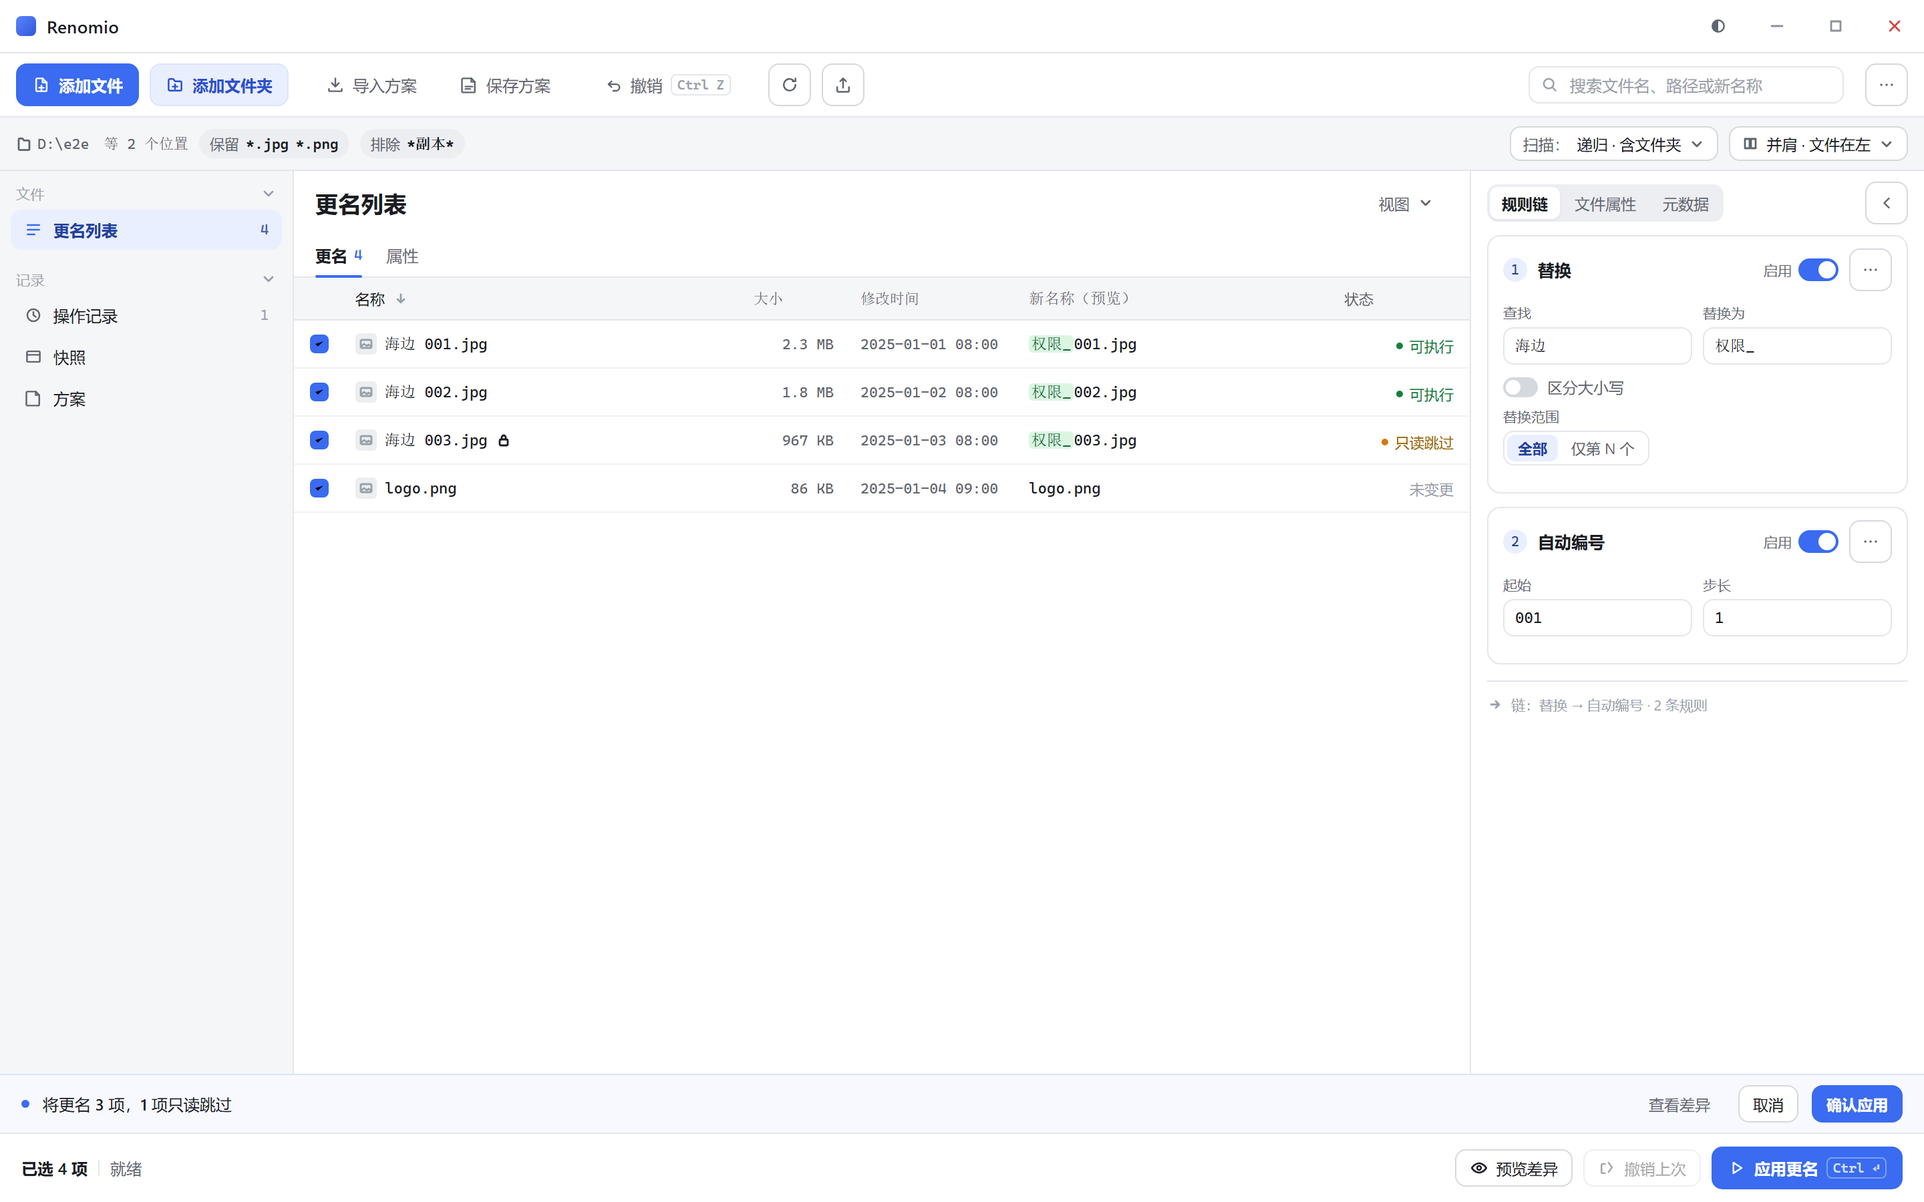
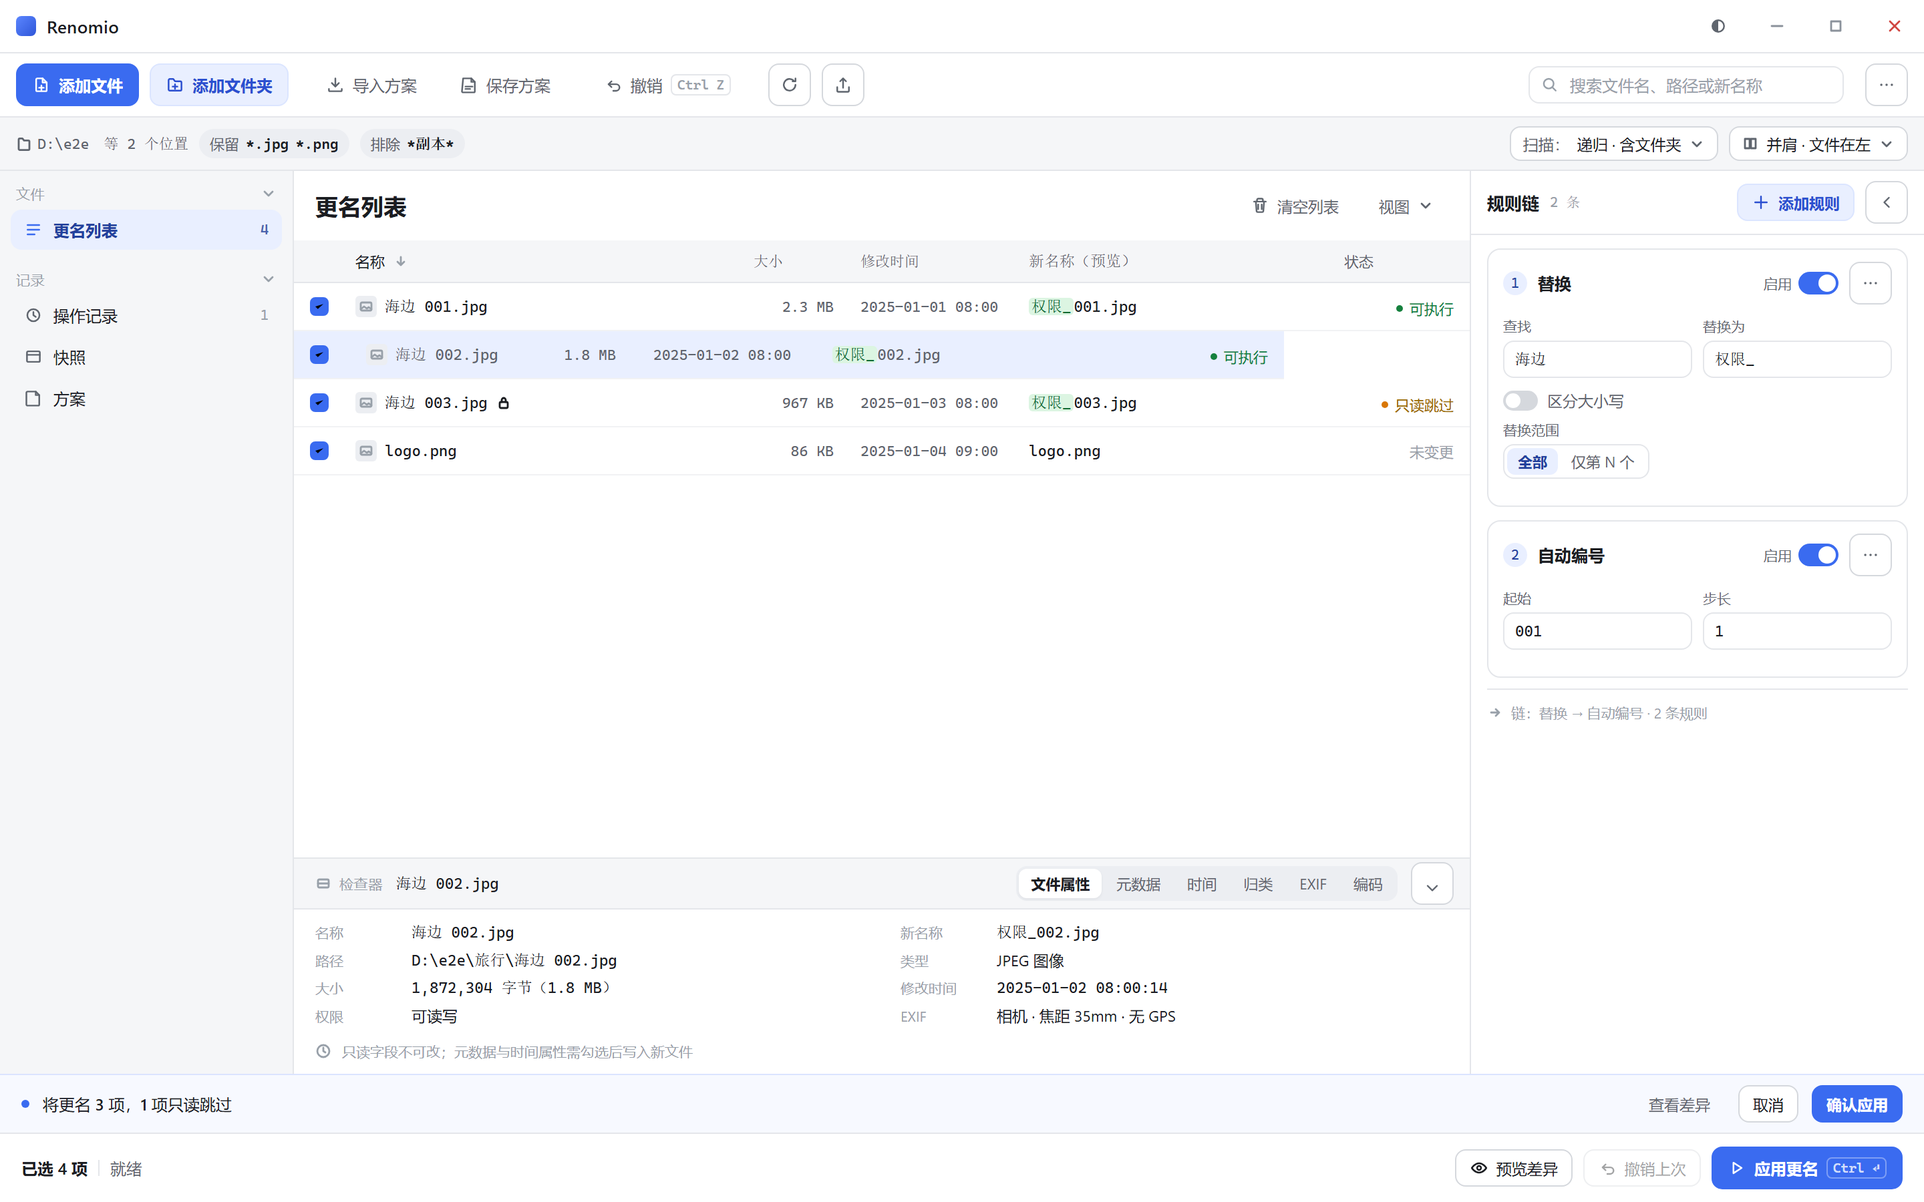
docs(design): v2 设计稿 - 检查器改底部抽屉、取消全部页签、新增清空列表

diff --git a/docs/design/p0-shell.html b/docs/design/p0-shell.html
@@ -2,7 +2,7 @@
 <html lang="zh-CN">
 <head>
 <meta charset="utf-8" />
-<title>Renomio · P0 界面重构设计稿</title>
+<title>Renomio · P0 界面重构设计稿（v2：检查器底部抽屉 / 无页签）</title>
 <style>
   :root{
     --bg:#ffffff;
@@ -30,7 +30,6 @@
   .win{width:1440px;height:900px;display:flex;flex-direction:column;min-height:0;overflow:hidden}
   svg.ic{width:14px;height:14px;flex:0 0 auto;stroke:currentColor;stroke-width:1.4;fill:none;stroke-linecap:round;stroke-linejoin:round}
   svg.ic.sm{width:12px;height:12px}
-  svg.ic.lg{width:16px;height:16px}
 
   /* 标题栏 40 */
   .titlebar{height:40px;flex:0 0 auto;display:flex;align-items:center;gap:8px;padding:0 12px;background:var(--surface);border-bottom:1px solid var(--line)}
@@ -67,7 +66,6 @@
   .path-btn .dim{color:var(--text-2)}
   .path-btn svg{color:var(--text-2)}
 
-  /* 主体 */
   .body{flex:1;display:flex;min-height:0}
 
   /* 侧栏 220 */
@@ -82,23 +80,19 @@
   .nav-item.active .cnt{color:#4a63ad}
   .nav-flex{flex:1}
 
-  /* 内容区 */
+  /* 内容区：无页签 */
   .pane{flex:1;min-width:0;display:flex;flex-direction:column;background:var(--bg)}
-  .pane-head{height:48px;flex:0 0 auto;display:flex;align-items:center;gap:12px;padding:0 16px}
+  .pane-head{height:52px;flex:0 0 auto;display:flex;align-items:center;gap:8px;padding:0 16px}
   .pane-head h1{font-size:17px;font-weight:600;margin:0;letter-spacing:.1px}
   .pane-head .sp{flex:1}
-  .tabs{height:32px;flex:0 0 auto;display:flex;align-items:flex-end;gap:18px;padding:0 16px;border-bottom:1px solid var(--line)}
-  .tab{position:relative;height:32px;display:inline-flex;align-items:center;gap:5px;font-size:12px;color:var(--text-2)}
-  .tab.active{color:var(--text);font-weight:600}
-  .tab.active::after{content:"";position:absolute;left:0;right:0;bottom:-1px;height:2px;background:var(--accent);border-radius:1px}
-  .tab i{font-style:normal;font-family:var(--mono);font-size:10.5px;color:var(--text-muted)}
-  .tab.active i{color:var(--accent)}
-  .table{flex:1;overflow:hidden}
-  .thead{height:32px;display:flex;align-items:center;border-bottom:1px solid var(--line);color:var(--text-2);font-size:11px;background:var(--surface-2)}
+  .table{flex:1;overflow:hidden;display:flex;flex-direction:column}
+  .thead{height:32px;flex:0 0 auto;display:flex;align-items:center;border-bottom:1px solid var(--line);color:var(--text-2);font-size:11px;background:var(--surface-2)}
   .th{display:flex;align-items:center;gap:4px;padding:0 10px;height:32px;font-weight:500}
   .th.sort{color:var(--text)}
   .th.sort svg{color:var(--text-muted)}
+  .rows{flex:1;overflow:hidden}
   .row{height:var(--row-h);display:flex;align-items:center;border-bottom:1px solid #f1f2f4;font-size:12px}
+  .row.sel{background:var(--accent-weak)}
   .c-check{width:36px;padding-left:12px;color:var(--line-2)}
   .row-check{width:14px;height:14px;border-radius:4px;border:1px solid var(--line-2);display:grid;place-items:center;background:#fff}
   .row-check.on{background:var(--accent);border-color:var(--accent);color:#fff}
@@ -119,14 +113,34 @@
   .dot-warn::before{background:#d97706}
   .stat-mute{color:var(--text-muted);font-size:11px}
 
-  /* 右栏 340 */
-  .inspector{width:340px;flex:0 0 auto;background:var(--surface);border-left:1px solid var(--line);display:flex;flex-direction:column}
-  .insp-head{height:48px;flex:0 0 auto;display:flex;align-items:center;gap:8px;padding:0 12px}
-  .seg{display:inline-flex;height:28px;padding:2px;border-radius:8px;background:var(--surface-3);gap:2px}
-  .seg span{display:inline-flex;align-items:center;padding:0 9px;border-radius:6px;font-size:11.5px;color:var(--text-2);white-space:nowrap}
+  /* 底部抽屉：检查器 */
+  .drawer{flex:0 0 auto;border-top:1px solid var(--line);background:var(--surface);display:flex;flex-direction:column}
+  .dw-head{height:38px;flex:0 0 auto;display:flex;align-items:center;gap:10px;padding:0 12px 0 16px;background:var(--surface-2);border-bottom:1px solid var(--line)}
+  .dw-title{display:inline-flex;align-items:center;gap:6px;font-size:10.5px;letter-spacing:.3px;color:var(--text-muted);white-space:nowrap}
+  .dw-subject{font-family:var(--mono);font-size:11.5px;color:var(--text);white-space:nowrap;overflow:hidden;text-overflow:ellipsis;max-width:220px}
+  .dw-head .sp{flex:1}
+  .seg{display:inline-flex;height:26px;padding:2px;border-radius:8px;background:var(--surface-3);gap:2px}
+  .seg span{display:inline-flex;align-items:center;padding:0 9px;border-radius:6px;font-size:11px;color:var(--text-2);white-space:nowrap}
   .seg span.on{background:var(--surface);color:var(--text);font-weight:600;box-shadow:0 1px 2px rgba(0,0,0,.05)}
+  .dw-body{padding:10px 16px 12px;display:grid;grid-template-columns:repeat(2,minmax(0,1fr));gap:6px 28px}
+  .kv{display:flex;align-items:center;gap:8px;font-size:11.5px;min-width:0}
+  .kv .k{color:var(--text-muted);width:64px;flex:0 0 auto;font-size:10.5px}
+  .kv .v{color:var(--text);font-family:var(--mono);font-size:11.5px;white-space:nowrap;overflow:hidden;text-overflow:ellipsis}
+  .kv .v.plain{font-family:var(--font)}
+  .dw-foot{display:flex;align-items:center;gap:8px;padding:0 16px 10px;color:var(--text-muted);font-size:10.5px}
+  .drawer.collapsed .dw-body,.drawer.collapsed .dw-foot{display:none}
+  .drawer.collapsed .dw-head{height:36px;border-bottom:0}
+  .drawer.collapsed .seg{display:none}
+  .dw-sum{display:none;font-size:10.5px;color:var(--text-muted)}
+  .drawer.collapsed .dw-sum{display:inline}
+
+  /* 右栏：只留规则链 */
+  .inspector{width:340px;flex:0 0 auto;background:var(--surface);border-left:1px solid var(--line);display:flex;flex-direction:column}
+  .insp-head{height:48px;flex:0 0 auto;display:flex;align-items:center;gap:8px;padding:0 12px;border-bottom:1px solid var(--line)}
+  .insp-head h2{font-size:13px;font-weight:600;margin:0}
+  .insp-head .badge{font-family:var(--mono);font-size:10.5px;color:var(--text-muted)}
   .insp-head .sp{flex:1}
-  .rule-card{margin:0 12px 10px;border:1px solid var(--line);border-radius:10px;background:var(--surface);padding:9px 11px 11px}
+  .rule-card{margin:10px 12px 0;border:1px solid var(--line);border-radius:10px;background:var(--surface);padding:9px 11px 11px}
   .rc-head{display:flex;align-items:center;gap:8px;margin-bottom:9px}
   .rc-no{width:18px;height:18px;border-radius:999px;background:var(--accent-weak);color:var(--accent-text);font-family:var(--mono);font-size:10.5px;display:grid;place-items:center}
   .rc-title{font-size:12.5px;font-weight:600}
@@ -145,7 +159,7 @@
   .scope{display:inline-flex;height:26px;padding:2px;border-radius:8px;border:1px solid var(--line);gap:2px}
   .scope span{padding:0 8px;display:inline-flex;align-items:center;border-radius:6px;font-size:11px;color:var(--text-2)}
   .scope span.on{background:var(--accent-weak);color:var(--accent-text);font-weight:600}
-  .chain-foot{display:flex;align-items:center;gap:6px;margin:2px 12px 0;padding-top:10px;border-top:1px solid var(--line);color:var(--text-muted);font-size:10.5px}
+  .chain-foot{display:flex;align-items:center;gap:6px;margin:8px 12px 0;padding-top:10px;border-top:1px solid var(--line);color:var(--text-muted);font-size:10.5px}
   .insp-flex{flex:1}
 
   /* 行内确认条 */
@@ -168,7 +182,7 @@
 <body>
 <div class="win">
 
-  <!-- 1 标题栏：只做窗口身份 -->
+  <!-- 1 标题栏 -->
   <div class="titlebar">
     <span class="brand"></span>
     <span class="product">Renomio</span>
@@ -183,7 +197,7 @@
     </div>
   </div>
 
-  <!-- 2 工具栏：四组 + 搜索 + 更多 -->
+  <!-- 2 工具栏 -->
   <div class="toolbar">
     <div class="grp">
       <button class="btn primary">
@@ -201,7 +215,7 @@
         导入方案
       </button>
       <button class="btn ghost">
-        <svg class="ic" viewBox="0 0 16 16"><path d="M3 2.5h7l3 3v8a1 1 0 0 1-1 1h-9a1 1 0 0 1-1-1v-10a1 1 0 0 1 1-1z"/><path d="M10 2.5v3h3"/><path d="M5 9.5h6M5 11.5h4"/></svg>
+        <svg class="ic" viewBox="0 0 16 16"><path d="M3 2.5h7l3 3v8a1 1 0 0 1-1 1h-9a1 1 0 0 1-1-1z"/><path d="M10 2.5v3h3"/><path d="M5 9.5h6M5 11.5h4"/></svg>
         保存方案
       </button>
     </div>
@@ -229,7 +243,7 @@
     </button>
   </div>
 
-  <!-- 3 路径条：单行，扫描选项收成一个按钮 -->
+  <!-- 3 路径条 -->
   <div class="pathbar">
     <span class="path">
       <svg class="ic sm" viewBox="0 0 12 12"><path d="M2 4.5V3a.8.8 0 0 1 .8-.8h2l1.2 1.5h3.2a.8.8 0 0 1 .8.8v5.5a.8.8 0 0 1-.8.8h-6.4a.8.8 0 0 1-.8-.8z"/></svg>
@@ -238,8 +252,7 @@
     <span class="chip">保留 <b>*.jpg</b> <b>*.png</b></span>
     <span class="chip">排除 <b>*副本*</b></span>
     <span class="path-spacer"></span>
-    <button class="path-btn">
-      <span class="dim">扫描：</span>递归 · 含文件夹
+    <button class="path-btn"><span class="dim">扫描：</span>递归 · 含文件夹
       <svg class="ic sm" viewBox="0 0 12 12"><path d="M3 5l3 3 3-3"/></svg>
     </button>
     <button class="path-btn">
@@ -251,7 +264,7 @@
 
   <div class="body">
 
-    <!-- 4 侧栏：只剩两组，计数只出现一次 -->
+    <!-- 4 侧栏 -->
     <aside class="nav">
       <div class="nav-group">
         <div class="nav-group-label">文件
@@ -282,18 +295,18 @@
       <div class="nav-flex"></div>
     </aside>
 
-    <!-- 5 主区：标题 + 视图菜单，页签只剩两个 -->
+    <!-- 5 内容区：无页签 -->
     <main class="pane">
       <div class="pane-head">
         <h1>更名列表</h1>
         <span class="sp"></span>
+        <button class="btn sm ghost" id="clear-list">
+          <svg class="ic" viewBox="0 0 16 16"><path d="M3 4.5h10"/><path d="M5.5 4.5V3a1 1 0 0 1 1-1h3a1 1 0 0 1 1 1v1.5"/><path d="M4.5 4.5l.6 8.2a1 1 0 0 0 1 .8h3.8a1 1 0 0 0 1-.8l.6-8.2"/><path d="M6.5 7v4M9.5 7v4"/></svg>
+          清空列表
+        </button>
         <button class="btn sm ghost">视图
           <svg class="ic sm" viewBox="0 0 12 12"><path d="M3 4.5l3 3 3-3"/></svg>
         </button>
-      </div>
-      <div class="tabs">
-        <span class="tab active">更名 <i>4</i></span>
-        <span class="tab">属性</span>
       </div>
 
       <div class="table">
@@ -308,52 +321,93 @@
           <div class="th c-stat">状态</div>
         </div>
 
-        <div class="row">
-          <div class="c-check"><span class="row-check on"><svg viewBox="0 0 12 12"><path d="M2 6l2.5 2.5L10 3.5"/></svg></span></div>
-          <div class="c-name"><span class="thumb"><svg class="ic sm" viewBox="0 0 12 12"><rect x="2" y="3" width="8" height="6" rx="1"/><path d="M2 8l2.5-2 2 1.5 1.5-1 2 1.5"/></svg></span><span class="fn">海边 001.jpg</span></div>
-          <div class="c-size">2.3 MB</div>
-          <div class="c-time">2025-01-01 08:00</div>
-          <div class="c-new"><em>权限_</em>001.jpg</div>
-          <div class="c-stat"><span class="dot-ok">可执行</span></div>
-        </div>
-        <div class="row">
-          <div class="c-check"><span class="row-check on"><svg viewBox="0 0 12 12"><path d="M2 6l2.5 2.5L10 3.5"/></svg></span></div>
-          <div class="c-name"><span class="thumb"><svg class="ic sm" viewBox="0 0 12 12"><rect x="2" y="3" width="8" height="6" rx="1"/><path d="M2 8l2.5-2 2 1.5 1.5-1 2 1.5"/></svg></span><span class="fn">海边 002.jpg</span></div>
-          <div class="c-size">1.8 MB</div>
-          <div class="c-time">2025-01-02 08:00</div>
-          <div class="c-new"><em>权限_</em>002.jpg</div>
-          <div class="c-stat"><span class="dot-ok">可执行</span></div>
-        </div>
-        <div class="row">
-          <div class="c-check"><span class="row-check on"><svg viewBox="0 0 12 12"><path d="M2 6l2.5 2.5L10 3.5"/></svg></span></div>
-          <div class="c-name"><span class="thumb"><svg class="ic sm" viewBox="0 0 12 12"><rect x="2" y="3" width="8" height="6" rx="1"/><path d="M2 8l2.5-2 2 1.5 1.5-1 2 1.5"/></svg></span><span class="fn">海边 003.jpg</span>
-            <svg class="ic sm" viewBox="0 0 12 12"><rect x="3" y="5.5" width="6" height="4.5" rx="1"/><path d="M4.5 5.5V4a1.5 1.5 0 0 1 3 0v1.5"/></svg>
+        <div class="rows">
+          <div class="row">
+            <div class="c-check"><span class="row-check on"><svg viewBox="0 0 12 12"><path d="M2 6l2.5 2.5L10 3.5"/></svg></span></div>
+            <div class="c-name"><span class="thumb"><svg class="ic sm" viewBox="0 0 12 12"><rect x="2" y="3" width="8" height="6" rx="1"/><path d="M2 8l2.5-2 2 1.5 1.5-1 2 1.5"/></svg></span><span class="fn">海边 001.jpg</span></div>
+            <div class="c-size">2.3 MB</div>
+            <div class="c-time">2025-01-01 08:00</div>
+            <div class="c-new"><em>权限_</em>001.jpg</div>
+            <div class="c-stat"><span class="dot-ok">可执行</span></div>
           </div>
-          <div class="c-size">967 KB</div>
-          <div class="c-time">2025-01-03 08:00</div>
-          <div class="c-new"><em>权限_</em>003.jpg</div>
-          <div class="c-stat"><span class="dot-warn">只读跳过</span></div>
+          <div class="row sel">
+            <div class="c-check"><span class="row-check on"><svg viewBox="0 0 12 12"><path d="M2 6l2.5 2.5L10 3.5"/></svg></span></div>
+            <div class="c-name"><span class="thumb"><svg class="ic sm" viewBox="0 0 12 12"><rect x="2" y="3" width="8" height="6" rx="1"/><path d="M2 8l2.5-2 2 1.5 1.5-1 2 1.5"/></svg></span><span class="fn">海边 002.jpg</span></div>
+            <div class="c-size">1.8 MB</div>
+            <div class="c-time">2025-01-02 08:00</div>
+            <div class="c-new"><em>权限_</em>002.jpg</div>
+            <div class="c-stat"><span class="dot-ok">可执行</span></div>
+          </div>
+          <div class="row">
+            <div class="c-check"><span class="row-check on"><svg viewBox="0 0 12 12"><path d="M2 6l2.5 2.5L10 3.5"/></svg></span></div>
+            <div class="c-name"><span class="thumb"><svg class="ic sm" viewBox="0 0 12 12"><rect x="2" y="3" width="8" height="6" rx="1"/><path d="M2 8l2.5-2 2 1.5 1.5-1 2 1.5"/></svg></span><span class="fn">海边 003.jpg</span>
+              <svg class="ic sm" viewBox="0 0 12 12"><rect x="3" y="5.5" width="6" height="4.5" rx="1"/><path d="M4.5 5.5V4a1.5 1.5 0 0 1 3 0v1.5"/></svg>
+            </div>
+            <div class="c-size">967 KB</div>
+            <div class="c-time">2025-01-03 08:00</div>
+            <div class="c-new"><em>权限_</em>003.jpg</div>
+            <div class="c-stat"><span class="dot-warn">只读跳过</span></div>
+          </div>
+          <div class="row">
+            <div class="c-check"><span class="row-check on"><svg viewBox="0 0 12 12"><path d="M2 6l2.5 2.5L10 3.5"/></svg></span></div>
+            <div class="c-name"><span class="thumb"><svg class="ic sm" viewBox="0 0 12 12"><rect x="2" y="3" width="8" height="6" rx="1"/><path d="M2 8l2.5-2 2 1.5 1.5-1 2 1.5"/></svg></span><span class="fn">logo.png</span></div>
+            <div class="c-size">86 KB</div>
+            <div class="c-time">2025-01-04 09:00</div>
+            <div class="c-new">logo.png</div>
+            <div class="c-stat"><span class="stat-mute">未变更</span></div>
+          </div>
         </div>
-        <div class="row">
-          <div class="c-check"><span class="row-check on"><svg viewBox="0 0 12 12"><path d="M2 6l2.5 2.5L10 3.5"/></svg></span></div>
-          <div class="c-name"><span class="thumb"><svg class="ic sm" viewBox="0 0 12 12"><rect x="2" y="3" width="8" height="6" rx="1"/><path d="M2 8l2.5-2 2 1.5 1.5-1 2 1.5"/></svg></span><span class="fn">logo.png</span></div>
-          <div class="c-size">86 KB</div>
-          <div class="c-time">2025-01-04 09:00</div>
-          <div class="c-new">logo.png</div>
-          <div class="c-stat"><span class="stat-mute">未变更</span></div>
+      </div>
+
+      <!-- 6 底部抽屉：检查器 -->
+      <div class="drawer" id="drawer">
+        <div class="dw-head">
+          <span class="dw-title">
+            <svg class="ic sm" viewBox="0 0 12 12"><rect x="2" y="3" width="8" height="6" rx="1"/><path d="M2 6h8"/></svg>
+            检查器
+          </span>
+          <span class="dw-subject">海边 002.jpg</span>
+          <span class="dw-sum">文件属性 · 8 项</span>
+          <span class="sp"></span>
+          <div class="seg">
+            <span class="on">文件属性</span>
+            <span>元数据</span>
+            <span>时间</span>
+            <span>归类</span>
+            <span>EXIF</span>
+            <span>编码</span>
+          </div>
+          <button class="btn icon" title="收起检查器" id="drawer-toggle">
+            <svg class="ic" viewBox="0 0 16 16"><path d="M4 10l4 4 4-4"/></svg>
+          </button>
+        </div>
+        <div class="dw-body">
+          <div class="kv"><span class="k">名称</span><span class="v">海边 002.jpg</span></div>
+          <div class="kv"><span class="k">新名称</span><span class="v">权限_002.jpg</span></div>
+          <div class="kv"><span class="k">路径</span><span class="v">D:\e2e\旅行\海边 002.jpg</span></div>
+          <div class="kv"><span class="k">类型</span><span class="v plain">JPEG 图像</span></div>
+          <div class="kv"><span class="k">大小</span><span class="v">1,872,304 字节（1.8 MB）</span></div>
+          <div class="kv"><span class="k">修改时间</span><span class="v">2025-01-02 08:00:14</span></div>
+          <div class="kv"><span class="k">权限</span><span class="v plain">可读写</span></div>
+          <div class="kv"><span class="k">EXIF</span><span class="v plain">相机 · 焦距 35mm · 无 GPS</span></div>
+        </div>
+        <div class="dw-foot">
+          <svg class="ic sm" viewBox="0 0 12 12"><circle cx="6" cy="6" r="4.5"/><path d="M6 3.5v2.5l1.5 1"/></svg>
+          只读字段不可改；元数据与时间属性需勾选后写入新文件
         </div>
       </div>
     </main>
 
-    <!-- 6 右栏：检查器类型收成分段控件 -->
+    <!-- 7 右栏：只留规则链 -->
     <aside class="inspector">
       <div class="insp-head">
-        <div class="seg">
-          <span class="on">规则链</span>
-          <span>文件属性</span>
-          <span>元数据</span>
-        </div>
+        <h2>规则链</h2>
+        <span class="badge">2 条</span>
         <span class="sp"></span>
+        <button class="btn sm soft">
+          <svg class="ic" viewBox="0 0 16 16"><path d="M8 3v10M3 8h10"/></svg>
+          添加规则
+        </button>
         <button class="btn icon" title="收起右栏">
           <svg class="ic" viewBox="0 0 16 16"><path d="M10 4l-4 4 4 4"/></svg>
         </button>
@@ -404,7 +458,7 @@
     </aside>
   </div>
 
-  <!-- 7 行内确认条：应用不再先弹窗 -->
+  <!-- 8 行内确认条 -->
   <div class="confirm">
     <span class="dot"></span>
     <span>将更名 <b>3</b> 项，<b>1</b> 项只读跳过</span>
@@ -414,7 +468,7 @@
     <button class="btn sm primary">确认应用</button>
   </div>
 
-  <!-- 8 底栏：一条 -->
+  <!-- 9 底栏 -->
   <div class="actionbar">
     <span class="sel"><b>已选 4 项</b><span class="sep"></span><span>就绪</span></span>
     <span class="bar-sp"></span>
@@ -423,7 +477,7 @@
       预览差异
     </button>
     <button class="btn sm" disabled>
-      <svg class="ic" viewBox="0 0 16 16"><path d="M6 4.5H4a1 1 0 0 0-1 1v6a1 1 0 0 0 1 1h2"/><path d="M9 3.5l3 4-3 4"/></svg>
+      <svg class="ic" viewBox="0 0 16 16"><path d="M4 7.5h6.5a2.8 2.8 0 0 1 0 5.6H8"/><path d="M6.5 5L4 7.5l2.5 2.5"/></svg>
       撤销上次
     </button>
     <button class="btn primary lg">
@@ -433,5 +487,12 @@
     </button>
   </div>
 </div>
+<script>
+  // 出一张「抽屉收起」对照图：p0-shell.html?collapsed
+  if (location.search.indexOf('collapsed') >= 0) {
+    document.getElementById('drawer').classList.add('collapsed');
+    document.querySelector('#drawer-toggle svg').innerHTML = '<path d="M4 6l4-4 4 4"/>';
+  }
+</script>
 </body>
 </html>
